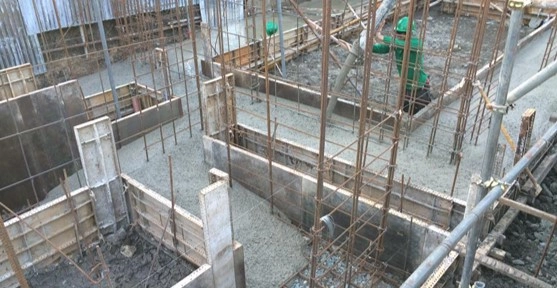
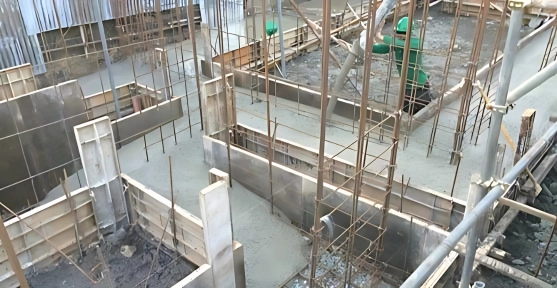
corrected texts and update pictures in bramp and trac

diff --git a/messageUs.html b/messageUs.html
@@ -58,17 +58,17 @@
                 <div class="flex flex-col items-center md:items-start">
                     <h3 class="font-semibold">About Us</h3>
                     <ul class="text-sm space-y-1">
-                        <a href="whoWeAre.html">    <li>Who Are We</li> </a>
+                        <a href="whoWeAre.html">    <li>Who We Are </li> </a>
                         <a href="whatWeBelieveIn.html">    <li>What We Believe In</li> </a>
-                        <a href="whatWeArePassionateAbout.html">    <li>What Are We Passionate About</li> </a>
+                        <a href="whatWeArePassionateAbout.html">    <li>What We Are Passionate About</li> </a>
                     </ul>
                 </div>
                 <div class="flex flex-col items-center md:items-start">
                     <h3 class="font-semibold">Projects</h3>
                     <ul class="text-sm space-y-1">
                     <a href="commercial.html"> <li>Commercial</li> </a>
-                    <a href="lowRise.html"> <li>Low-Rise Residential</li> </a>
-                    <a href="midrise.html"> <li>Mid-Rise Residential</li> </a>
+                    <a href="lowRise.html"> <li>Lowrise Residential</li> </a>
+                    <a href="midrise.html"> <li>Midrise Residential</li> </a>
                     <a href="educationalInstitution.html"> <li>Educational Institution</li> </a> 
                     <a href="medicalInstitution.html"> <li>Medical Institution</li> </a> 
                     </ul>
@@ -93,7 +93,7 @@
             </div>
         </div>
     
-        <div class="flex flex-col md:flex-row justify-center md:justify-between items-center mt-8 border-t border-gray-700 pt-4">
+        <div class="flex flex-col md:flex-row justify-center md:justify-between items-center mt-8 pt-4">
             <p class="text-sm text-center md:text-left">Copyright &copy; 2024 | Shearwall Systems, Inc.</p>
             <div class="flex space-x-4 mt-4 md:mt-0">
                 <img src="images/fb.webp" alt="Facebook" class="w-6 h-6">

diff --git a/lowRise7.html b/lowRise7.html
@@ -45,7 +45,7 @@
                     </div>
                     <!-- Image 3 -->
                     <div>
-                        <img src="images/brmv3.webp" alt="Construction Phase 3" class="w-full h-auto ">
+                        <img src="images/brmv3Updated.webp" alt="Construction Phase 3" class="w-full h-auto ">
                     </div>
                     <!-- Image 4 -->
                     <div>

diff --git a/lowRise1.html b/lowRise1.html
@@ -32,7 +32,7 @@
     <h1 class="text-lg md:text-2xl lg:text-3xl text-white font-bold pl-4">Aggabao Residence</h1>
 
     <!-- Logo (Upper Right Side) -->
-    <a href="index.html" class="ml-auto"> <img src="images/SSI_Logo.png" class="w-16 h-16"> </a>
+    <a href="index.html" class="ml-auto"> <img src="images/SSI_Logo.webp" class="w-16 h-16"> </a>
 </div>
 
             <!-- Responsive Grid for Images -->
